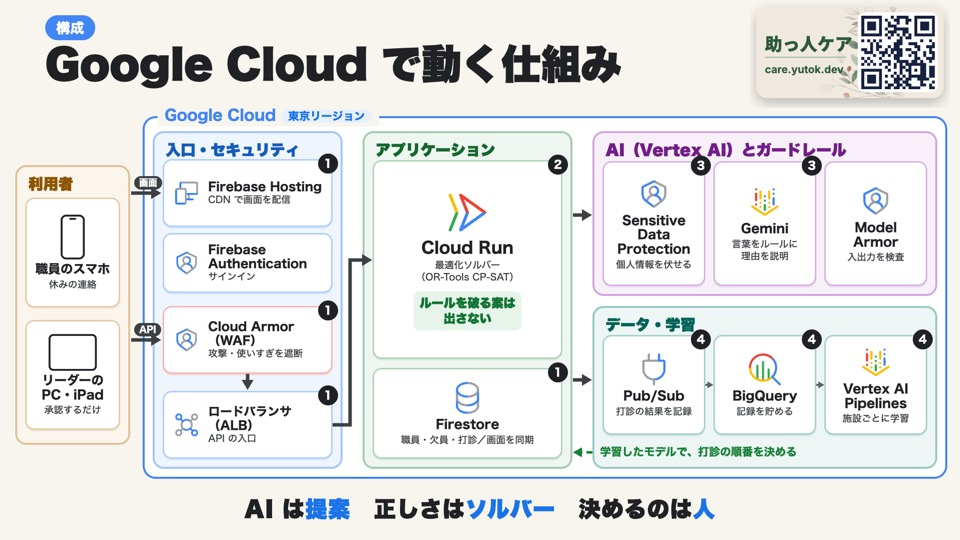
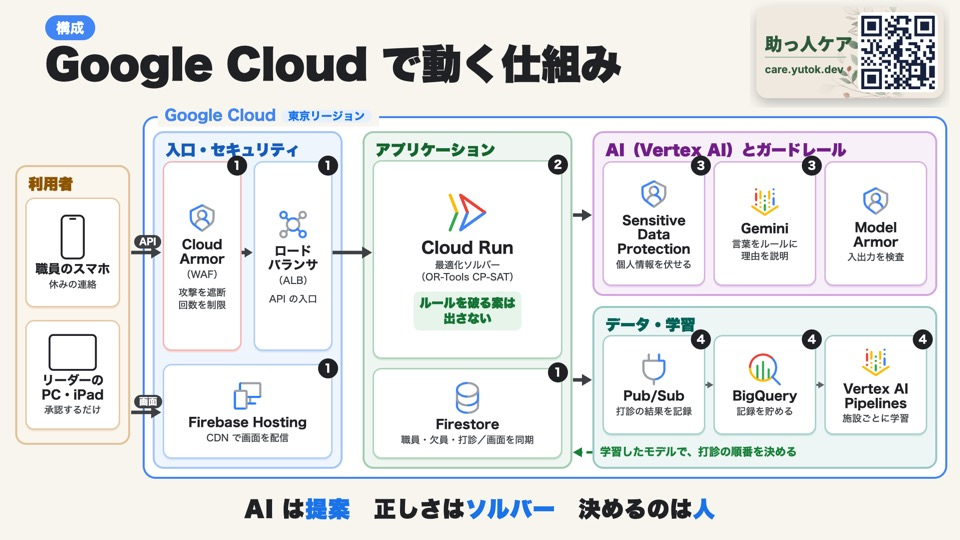
fix(sukettocare): 15枚目の入口を WAF・ALB（上に縦長で2列）と Firebase Hosting（下）に。Authentication を外す

Changed region(s): [[0.125, 0.2667, 0.4062, 0.8296]]

diff --git a/sukettocare/slides/ar-d.html b/sukettocare/slides/ar-d.html
@@ -47,13 +47,12 @@
 <div class="gcl">Google Cloud<span>東京リージョン</span></div>
 
 <!-- 入口・セキュリティ -->
-<div class="layer" style="--c:#1A73E8; left:305px; top:262px; width:380px; height:676px" data-has="hosting auth armor alb"><div class="ln">入口・セキュリティ</div></div>
-<div class="svc tile row" data-s="hosting" style="--c:#1A73E8; left:325px; top:318px; width:340px; height:136px"><div class="num">1</div><img src="icons/web.svg" alt=""><div><b>Firebase Hosting</b><small>CDN で画面を配信</small></div></div>
-<div class="svc tile row" data-s="auth" style="--c:#1A73E8; left:325px; top:466px; width:340px; height:120px"><img src="icons/iam.svg" alt=""><div><b>Firebase Authentication</b><small>サインイン</small></div></div>
-<div class="svc tile row" data-s="armor" style="--c:#D93025; left:325px; top:612px; width:340px; height:136px"><div class="num">1</div><img src="icons/iam.svg" alt=""><div><b>Cloud Armor（WAF）</b><small>攻撃・使いすぎを遮断</small></div></div>
-<div class="svc tile row" data-s="alb" style="--c:#1A73E8; left:325px; top:782px; width:340px; height:136px"><div class="num">1</div><img src="icons/net.svg" alt=""><div><b>ロードバランサ（ALB）</b><small>API の入口</small></div></div>
-<div class="lane" style="left:268px; top:352px">画面</div>
-<div class="lane" style="left:268px; top:646px">API</div>
+<div class="layer" style="--c:#1A73E8; left:305px; top:262px; width:380px; height:676px" data-has="hosting armor alb"><div class="ln">入口・セキュリティ</div></div>
+<div class="svc tile" data-s="armor" style="--c:#D93025; left:325px; top:322px; width:158px; height:380px"><div class="num">1</div><img src="icons/iam.svg" alt=""><b>Cloud Armor</b><small>（WAF）</small><small style="margin-top:8px">攻撃を遮断<br>回数を制限</small></div>
+<div class="svc tile" data-s="alb" style="--c:#1A73E8; left:507px; top:322px; width:158px; height:380px"><div class="num">1</div><img src="icons/net.svg" alt=""><b>ロード<br>バランサ</b><small>（ALB）</small><small style="margin-top:8px">API の入口</small></div>
+<div class="svc tile" data-s="hosting" style="--c:#1A73E8; left:325px; top:728px; width:340px; height:190px"><div class="num">1</div><img src="icons/web.svg" alt=""><b>Firebase Hosting</b><small>CDN で画面を配信</small></div>
+<div class="lane" style="left:268px; top:470px">API</div>
+<div class="lane" style="left:268px; top:790px">画面</div>
 
 <!-- アプリケーション -->
 <div class="layer" style="--c:#188038; left:725px; top:262px; width:420px; height:676px" data-has="run firestore"><div class="ln">アプリケーション</div></div>
@@ -73,10 +72,10 @@
 <div class="svc tile" data-s="pipe" style="--c:#00796B; left:1649px; top:670px; width:206px; height:200px"><div class="num">4</div><img src="icons/vertex.svg" alt=""><b>Vertex AI Pipelines</b><small>施設ごとに学習</small></div>
 
 <svg class="l">
-  <path class="k" d="M262 386 H306"/><polygon class="k" points="322,386 302,374 302,398"/>
-  <path class="k" d="M262 680 H306"/><polygon class="k" points="322,680 302,668 302,692"/>
-  <path class="k" d="M495 748 V764"/><polygon class="k" points="495,780 483,760 507,760"/>
-  <path class="k" d="M665 850 H700 V520 H728"/><polygon class="k" points="744,520 724,508 724,532"/>
+  <path class="k" d="M262 505 H306"/><polygon class="k" points="322,505 302,493 302,517"/>
+  <path class="k" d="M262 825 H306"/><polygon class="k" points="322,825 302,813 302,837"/>
+  <path class="k" d="M483 505 H491"/><polygon class="k" points="505,505 489,495 489,515"/>
+  <path class="k" d="M665 505 H728"/><polygon class="k" points="744,505 724,493 724,517"/>
   <path class="k" d="M1146 430 H1168"/><polygon class="k" points="1184,430 1164,418 1164,442"/>
   <path class="k" d="M1146 760 H1168"/><polygon class="k" points="1184,760 1164,748 1164,772"/>
   <path d="M1411 770 H1423"/><polygon points="1427,770 1415,763 1415,777"/>
